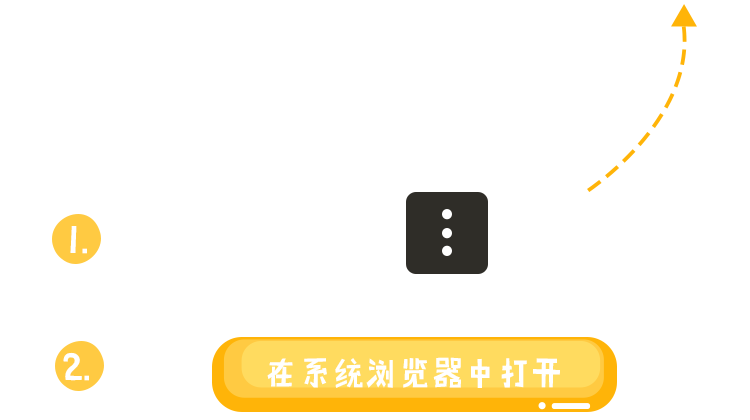
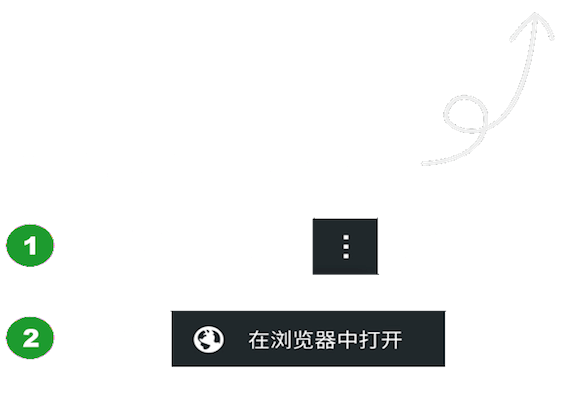
下载

diff --git a/index.html b/index.html
@@ -2,10 +2,9 @@
     <meta charset="utf-8">
     <meta name="viewport" content="width=device-width, initial-scale=1.0, maximum-scale=1.0, minimum-scale=1.0, user-scalable=0">
     <meta name="author" content="leaf">
-    <meta name="description" content="&#x6C47;&#x805A;&#x5168;&#x7403;&#x6F6E;&#x6D41;&#x7F8E;&#x5986;&#x8FBE;&#x4EBA;&#xFF0C;
-    &#x62E5;&#x6709;&#x5F3A;&#x52BF;&#x5185;&#x5BB9;&#x548C;&#x72EC;&#x5BB6;&#x53D8;&#x7F8E;&#x8BFE;&#x7A0B;&#xFF0C;&#x4E3A;&#x4F60;&#x5B9A;&#x5236;&#x81EA;&#x5DF1;&#x7684;&#x53D8;&#x7F8E;&#x6307;&#x5357;...">
-    <meta name="keywords" content="&#x65F6;&#x5C1A;&#x7F8E;&#x5986;&#x5185;&#x5BB9;&#x5206;&#x4EAB;&#x793E;&#x533A;">
-    <title>LIKE &#x65F6;&#x5C1A;&#x7F8E;&#x5986;&#x5185;&#x5BB9;&#x5206;&#x4EAB;&#x793E;&#x533A;</title>
+    <meta name="description" content="">
+    <meta name="keywords" content="">
+    <title>热见下载</title>
     <style type="text/css">
         html, body {
             height: 100%;
@@ -56,7 +55,7 @@
 
         .box {
             position: absolute;
-            top: 50%;
+            top: 38%;
             left: 50%;
             -webkit-transform: translate3d(-50%, -50%, 0);
             -moz-transform: translate3d(-50%, -50%, 0);
@@ -107,12 +106,23 @@
         .mask img {
             display: block;
             margin-top: 20px;
-            width: 100%;
+            width: 80%;
+            float: right;
+            margin-right: 4%;
+        }
+        .mask .close {
+            display: inline-block;
+            position: fixed;
+            padding: 20px;
+            top: 4%;
+            left: 6%;
+            font-size: 24px;
+            color: #fff;
         }
     </style>
 </head>
 <body>
-<input type="hidden" id="params" data-type="1" data-img_url="" data-download_url="http://alpha-s.iyanzhi.com/testbuild/test/pengyouquan/gm_alpha_pengyouquan.apk" data-second="" data-default_url="&#x4E0D;&#x8DF3;&#x8F6C;" data-title="">
+<input type="hidden" id="params" data-type="1" data-img_url="" data-download_url="https://rejian-pic.oss-cn-beijing.aliyuncs.com/apk/app-release-1.0.apk" data-second="" data-default_url="&#x4E0D;&#x8DF3;&#x8F6C;" data-title="">
 
 <div class="wrap" id="js_download">
     <div class="box">
@@ -124,6 +134,7 @@
         </div>
     </div>
     <div class="mask" id="mask">
+        <span class="close" id="close">×</span>
         <img src="./assets/img/guide.png">
     </div>
 </div>
@@ -131,84 +142,34 @@
     /**
      @type 跳转方式：1：直接跳下载 2：有背景图点击下载 3：有背景图支持点击和自动下载
      @img_url 背景图url
-     @download_url 安卓包的下载地址
-     @second 多少秒下载 默认是3秒
-     @default_url 在pc上的跳转地址 默认的是 http://www.igengmei.com 不跳转就填不跳转
      **/
     (function () {
         var sUserAgent = navigator.userAgent.toLowerCase(),
-                isWeixin = (sUserAgent.match(/micromessenger/i) == 'micromessenger'),
-                isIpad = (sUserAgent.match(/ipad/i) == 'ipad'),
-                isIphone = (sUserAgent.match(/iphone/i) == 'iphone'),
-                isAndroid = (sUserAgent.match(/android/i) == 'android'),
-                tips = document.getElementById('js_tips'),
-                download = document.getElementById('dowonloadBtn'),
-                mask = document.getElementById('mask');
-                params = document.getElementById('params'),
-                type = Number(params.getAttribute('data-type')),
-                imgUrl = params.getAttribute('data-img_url'),
-                download_url = params.getAttribute('data-download_url'),
-                second = params.getAttribute('data-second') * 1000 || 3000,
-                defaulturl = params.getAttribute('data-default_url') || 'http://www.igengmei.com',
-                title = params.getAttribute('data-title') || "like app-我的变美指南";
-        document.title = title;
+            isWeixin = (sUserAgent.match(/micromessenger/i) == 'micromessenger'),
+            isIpad = (sUserAgent.match(/ipad/i) == 'ipad'),
+            isIphone = (sUserAgent.match(/iphone/i) == 'iphone'),
+            isAndroid = (sUserAgent.match(/android/i) == 'android'),
+            isQQ = !!sUserAgent.match(/mqqbrowser|qzone|qqbrowser/i)
+            download = document.getElementById('dowonloadBtn'),
+            mask = document.getElementById('mask');
+            close = document.getElementById('close');
+            download_url = params.getAttribute('data-download_url');
         function downloadFn() {
-            if (isWeixin && isAndroid) {
-                download.style.display = 'block'
-            }
             location.href = isAndroid ? download_url : 'https://itunes.apple.com/cn/app/id1442774408?mt=8';
         }
+        download.addEventListener('click', clickBtn)
 
-        download.addEventListener('click', downloadFn)
-        // switch (type) {
-        //     case 1: {
-        //         img.style.display = 'none';
-        //         downloadFn()
-        //         break;
-        //     }
-        //     case 2: {
-        //         img.setAttribute('src', imgUrl);
-        //         text.style.display = 'none';
-        //         break;
-        //     }
-        //     case 3: {
-        //         img.setAttribute('src', imgUrl);
-        //         text.style.display = 'none';
-        //         var timeFn = setTimeout(function () {
-        //             downloadFn()
-        //         }, isWeixin ? second : 1000);
-        //     }
-        // }
-        // download.addEventListener('click', function (e) {
-        //     if (isWeixin && isAndroid) {
-        //         tips.style.visibility = 'visible';
-        //     } else {
-        //         downloadFn()
-        //     }
-        // }, false);
-        // setTimeout(function () {
-        //     if (isWeixin && isAndroid) {
-        //         tips.style.visibility = 'visible';
-        //     }
-        // }, 1000)
-        // tips.addEventListener('click', function (e) {
-        //     this.style.visibility = 'hidden';
-        // }, false);
-
-        // if (isAndroid || isIphone || isIpad) {
-        //     isAndroid && (tips.style.backgroundImage = 'url("http://hera.s.igengmei.com/2017/09/25/6660e52253")');
-        // } else {
-        //     if (defaulturl == '不跳转') {
-        //         return false
-        //     } else {
-        //         location.href = defaulturl;
-        //     }
-        // }
+        function clickBtn() {
+            if (isWeixin && isAndroid || isQQ) {
+                mask.style.display = 'block';
+            } else {
+                downloadFn()
+            }
+        }
+        close.addEventListener('click', function() {
+            mask.style.display = 'none';
+        })
     })();
 </script>
-<section style="display:none">
-    <script src="http://s4.cnzz.com/z_stat.php?id=1253975948&amp;web_id=1253975948" language="JavaScript"></script>
-</section>
-
-
-</body></html>
+</body>
+</html>
